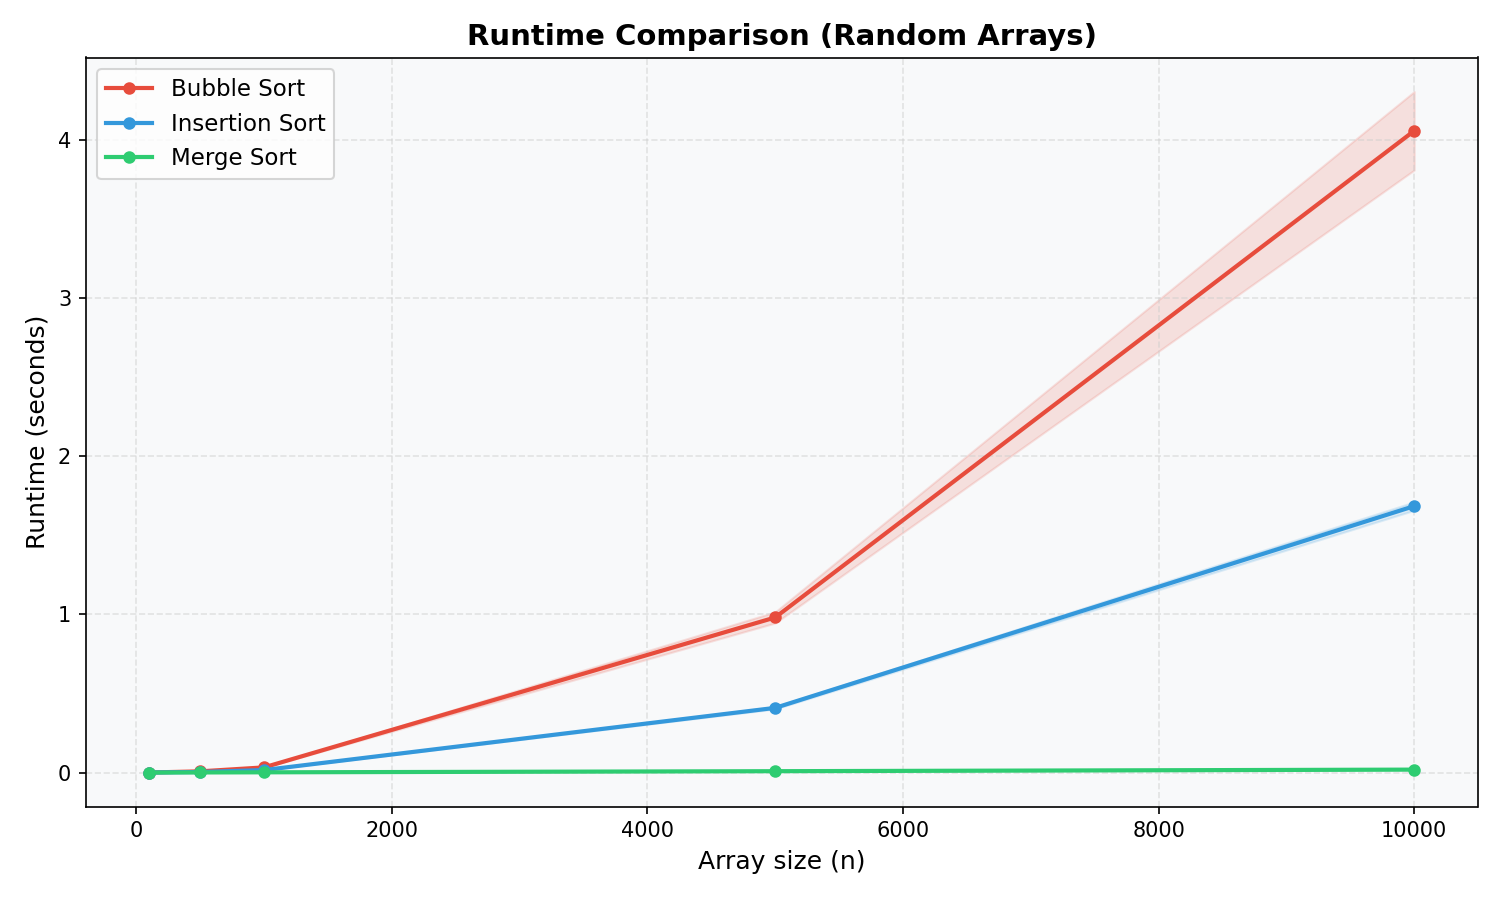
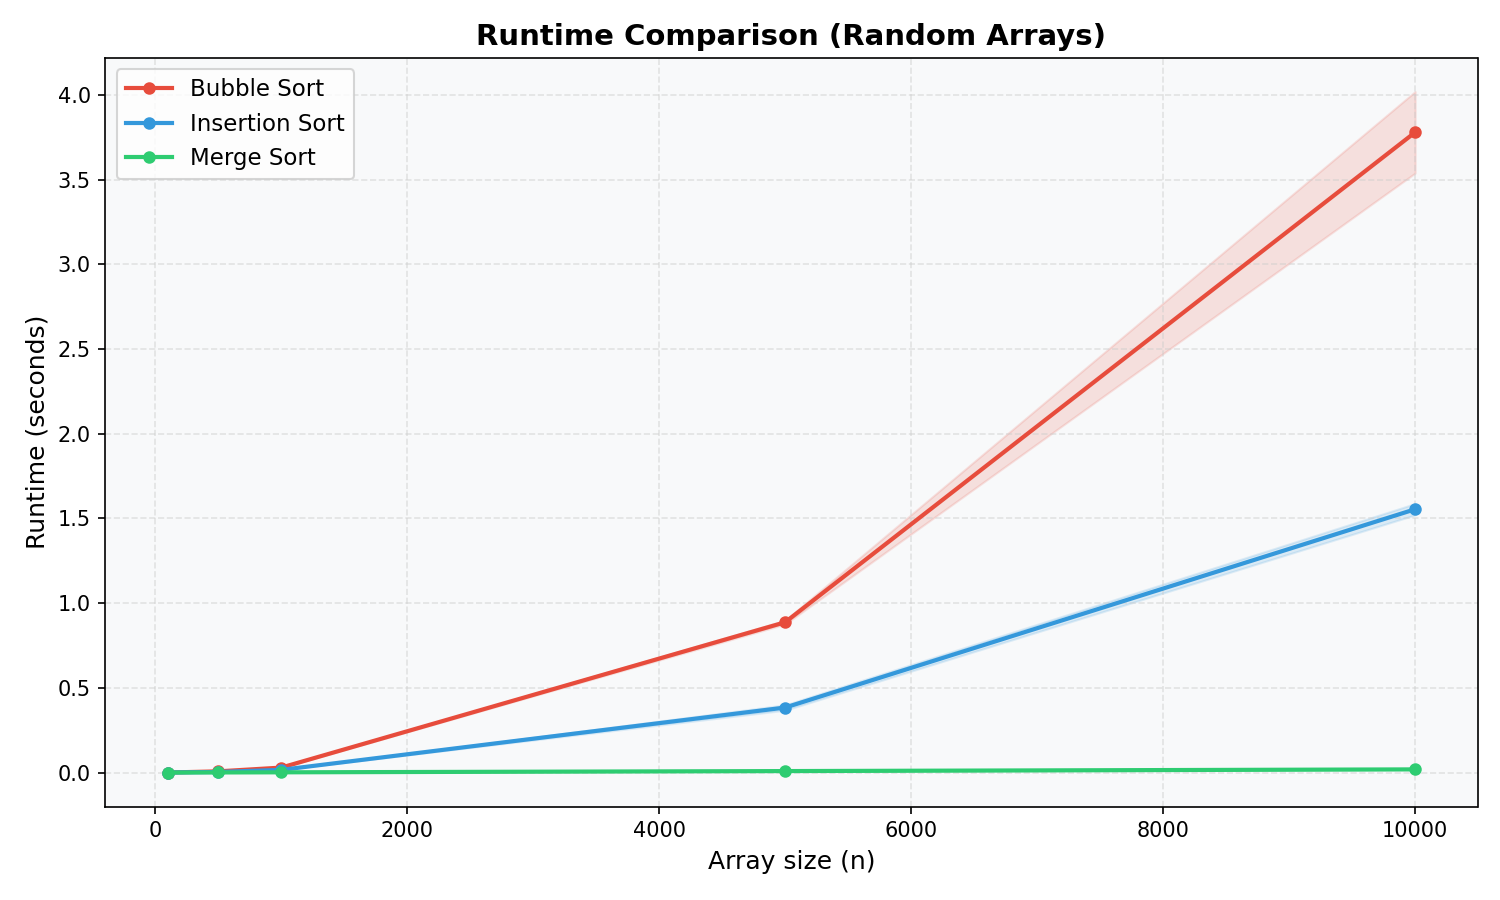
fix

diff --git a/run_experiments.py b/run_experiments.py
@@ -82,7 +82,7 @@ def _median_of_five(a, low, high):
     step = max(1, (high - low) // 4)
     candidates = [low, low + step, (low + high) // 2, high - step, high]
     candidates = [max(low, min(high, c)) for c in candidates]
-    
+
     for i in range(1, 5):
         key_val = a[candidates[i]]
         key_idx = candidates[i]
@@ -91,14 +91,14 @@ def _median_of_five(a, low, high):
             candidates[j + 1] = candidates[j]
             j -= 1
         candidates[j + 1] = key_idx
-    
-    return candidates[2]  
+
+    return candidates[2]
 
 
 def _partition(a, low, high):
     if high - low >= 4:
         median_idx = _median_of_five(a, low, high)
-        a[median_idx], a[high] = a[high], a[median_idx]   
+        a[median_idx], a[high] = a[high], a[median_idx]
     pivot = a[high]
     i = low - 1
     for j in range(low, high):
@@ -119,7 +119,7 @@ ALGORITHMS = {
 }
 
 SLOW_ALGOS = {"Bubble Sort", "Selection Sort", "Insertion Sort"}
-SLOW_LIMIT  = 20_000   
+SLOW_LIMIT  = 20_000
 
 COLORS = {
     "Bubble Sort":    "#e74c3c",
@@ -182,30 +182,61 @@ def run_experiment(algo_ids, sizes, repetitions, array_gen):
 #  Plotting
 # ──────────────────────────────────────────────
 
-def plot_results(results, sizes, title, filename):
-    fig, ax = plt.subplots(figsize=(10, 6))
-    ax.set_facecolor("#f8f9fa")
-    fig.patch.set_facecolor("white")
-    ax.grid(True, linestyle="--", alpha=0.5, color="#cccccc")
-
+def _draw_algo_lines(ax, results, sizes):
+    """Helper: draw lines + shaded std bands for one axes panel."""
     for name, size_data in results.items():
         color = COLORS.get(name, "gray")
         xs    = np.array(sizes, dtype=float)
         means = np.array([size_data.get(n, (float("nan"), float("nan")))[0] for n in sizes])
         stds  = np.array([size_data.get(n, (float("nan"), float("nan")))[1] for n in sizes])
-
-        mask = ~np.isnan(means)
+        mask  = ~np.isnan(means)
         ax.plot(xs[mask], means[mask], marker="o", label=name,
                 color=color, linewidth=2, markersize=5)
         ax.fill_between(xs[mask],
                         (means - stds)[mask],
                         (means + stds)[mask],
-                        alpha=0.15, color=color)
+                        alpha=0.2, color=color)
+
+
+def plot_results(results, sizes, title, filename):
+    """Single-panel plot used for Part B (random arrays)."""
+    fig, ax = plt.subplots(figsize=(10, 6))
+    ax.set_facecolor("#f8f9fa")
+    fig.patch.set_facecolor("white")
+    ax.grid(True, linestyle="--", alpha=0.5, color="#cccccc")
+
+    _draw_algo_lines(ax, results, sizes)
 
     ax.set_xlabel("Array size (n)", fontsize=12)
     ax.set_ylabel("Runtime (seconds)", fontsize=12)
     ax.set_title(title, fontsize=14, fontweight="bold")
     ax.legend(fontsize=11)
+    plt.tight_layout()
+    plt.savefig(filename, dpi=150)
+    plt.close()
+    print(f"  Saved → {filename}")
+
+
+def plot_comparison(results_random, results_sorted, sizes, noise_pct, filename):
+    """Side-by-side panel plot used for Part C (random vs nearly sorted)."""
+    fig, axes = plt.subplots(1, 2, figsize=(16, 6))
+
+    panel_data = [
+        (axes[0], results_random, "Random Arrays"),
+        (axes[1], results_sorted, f"Nearly Sorted (noise={noise_pct}%)"),
+    ]
+
+    for ax, results, title in panel_data:
+        ax.set_facecolor("#f8f9fa")
+        ax.grid(True, linestyle="--", alpha=0.5, color="#cccccc")
+        _draw_algo_lines(ax, results, sizes)
+        ax.set_xlabel("Array size (n)", fontsize=12)
+        ax.set_ylabel("Runtime (seconds)", fontsize=12)
+        ax.set_title(title, fontsize=13, fontweight="bold")
+        ax.legend(fontsize=10)
+
+    fig.suptitle("Runtime Comparison: Random vs Nearly Sorted",
+                 fontsize=15, fontweight="bold")
     plt.tight_layout()
     plt.savefig(filename, dpi=150)
     plt.close()
@@ -290,13 +321,17 @@ def main():
         # ── Part C – Nearly sorted arrays ───────
         noise     = 0.05 if args.e == 1 else 0.20
         noise_pct = int(noise * 100)
-        label     = f"Nearly Sorted (noise={noise_pct}%)"
-        print(f"── Part C: {label} ──")
-        results = run_experiment(args.a, args.s, args.r,
-                                 lambda n: nearly_sorted_array(n, noise))
-        plot_results(results, args.s,
-                     title=f"Runtime Comparison ({label})",
-                     filename="result2.png")
+        print(f"── Part C: Nearly Sorted (noise={noise_pct}%) ──")
+
+        print("  Running on random arrays for comparison...")
+        results_random = run_experiment(args.a, args.s, args.r, random_array)
+
+        print(f"  Running on nearly sorted arrays ({noise_pct}% noise)...")
+        results_sorted = run_experiment(args.a, args.s, args.r,
+                                        lambda n: nearly_sorted_array(n, noise))
+
+        plot_comparison(results_random, results_sorted, args.s, noise_pct,
+                        filename="result2.png")
 
     print("\nDone!")
 
